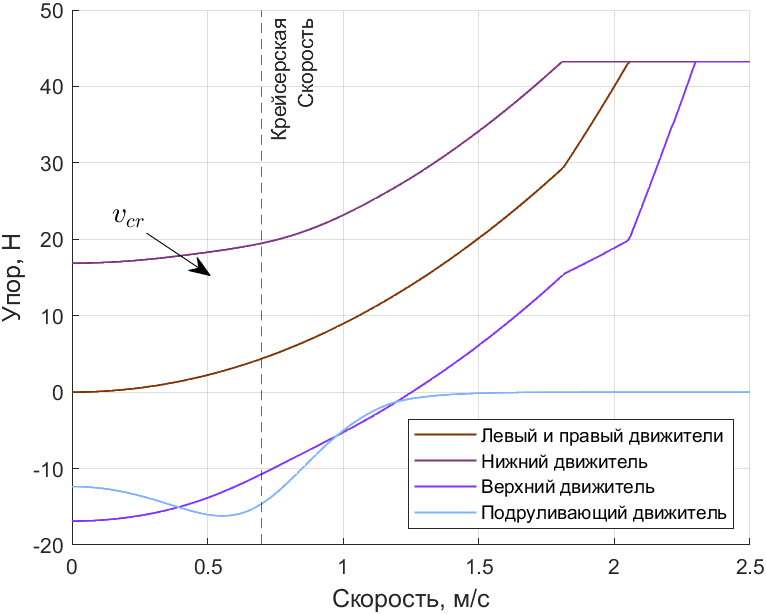
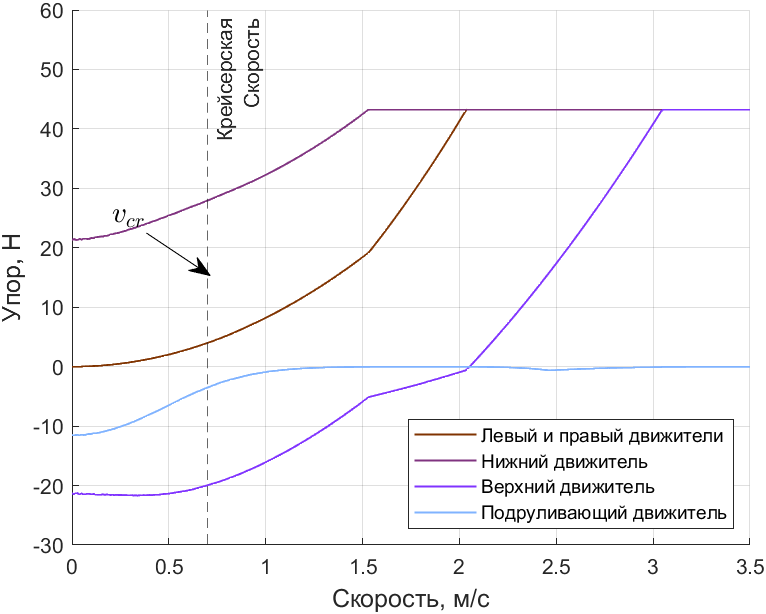
Исправлены результаты моделирования. Настроены весовые коэффициенты что бы задачи были более похожи.

diff --git a/Dissertation/partAllocation.tex b/Dissertation/partAllocation.tex
@@ -758,8 +758,9 @@
 В рамках исследования было произведено сравнение двух методов: адаптивный метод управления ДРК предлагаемый в исследовании и метод прямого управления ДРК с линейным масштабированием (раздел \ref{sssec:AllocationFix}) адаптированный для различных вариаций скорости, который реализован на АНПА ``ММТ-300''.
 
 Для решения задачи адаптивного управления используется матрица коэффициентов влияния набегающего потока, которая, в соответствии с уравнением \ref{eq:flow_matrix}, задана следующим образом:
-\begin{equation*}
-    K = 
+\begin{equation}
+    \label{eq:flow_matrix_test}
+    K(v) = 
     \begin{pNiceMatrix}[columns-width=auto]
        1 & 0 & 0 & 0 & 0 & 0 \\
        0 & 1 & 0 & 0 & 0 & 0 \\
@@ -768,7 +769,7 @@
        0 & 0 & 0 & 0 & e^{-c_{tv}\frac{v}{u_j}} & 0 \\
        0 & 0 & 0 & 0 & 0 &  e^{-c_{tv}\frac{v}{u_j}}\\
     \end{pNiceMatrix}
-\end{equation*}
+\end{equation}
 \noindent где $c_{tv}, c_{th}$ -- соответственно коэффициент подавления упора вертикального и горизонтального движителя.
 
 
@@ -821,6 +822,39 @@
     \item $c_x$ -- 35,0 Н $\cdot$ м/с;
     \item $m_y^0$ -- 40,0 Нм;
 \end{itemize}
+
+Весовые коэффициенты итерационной формулы поиска адаптивного управления ДРК \ref{eq:Allocation/FixedMethod} представлены в таблице \ref{tab:weight_coeff}.
+Численные параметры расчёта матрицы коэффициентов влияния набегающего потока \ref{eq:flow_matrix_test} представлены в таблице \ref{tab:matrix_flow_coeff}.
+
+\begin{table}
+    \caption{Весовые коэффициенты для адаптивного управления ДРК.}
+    \label{tab:weight_coeff}
+    \centering
+    \begin{tabular}{ll}
+        \toprule
+        Наименование & Величина \\
+        \midrule
+        $\epsilon$ & 0.8 \\
+        $Q_{\nu}$ & $\text{diag}([0,6;\:0,0;\:0,0;\:2,25;\:0,0])$ \\
+        $Q_{n}$  & $\text{diag}([0,4;\:0,4;\:0,4;\:0,4;\:0,4])$ \\
+        \bottomrule
+    \end{tabular}
+\end{table}
+
+\begin{table}
+    \caption{Параметры расчёта матрицы $K(v)$.}
+    \label{tab:matrix_flow_coeff}
+    \centering
+    \begin{tabular}{lll}
+        \toprule
+        Описание & Обозначение & Величина \\
+        \midrule
+        Коэффициент подавления упора & $c$ & 2.0 \\
+        Диаметр винта & $D$ & 0.14 м \\
+        Плотность воды & $\rho$ & 1000 кг/м$^3$ \\
+        \bottomrule
+    \end{tabular}
+\end{table}
 
 Результаты распределения упоров методом прямого управления ДРК с масштабированием в диапазоне скоростей от 0 до 2.5 м/с представлены на рисунке \ref{fig:mmt-300-allocation-fix-thrust}.
 В свою очередь на рисунке \ref{fig:mmt-300-allocation-fix-force} показаны целевые и фактические силы которые были при этом.
